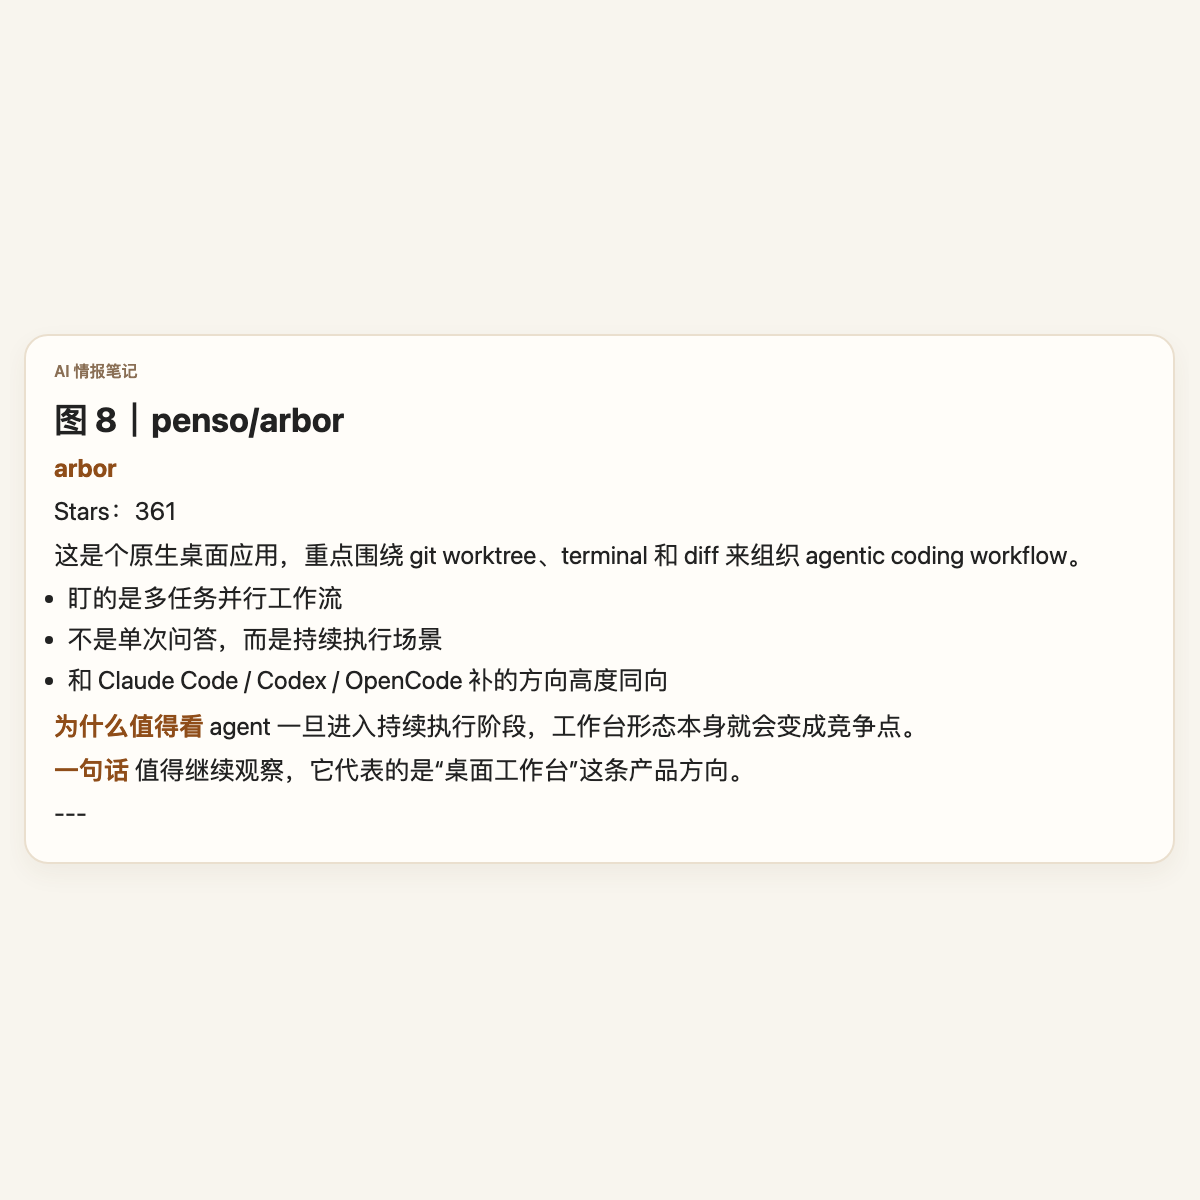
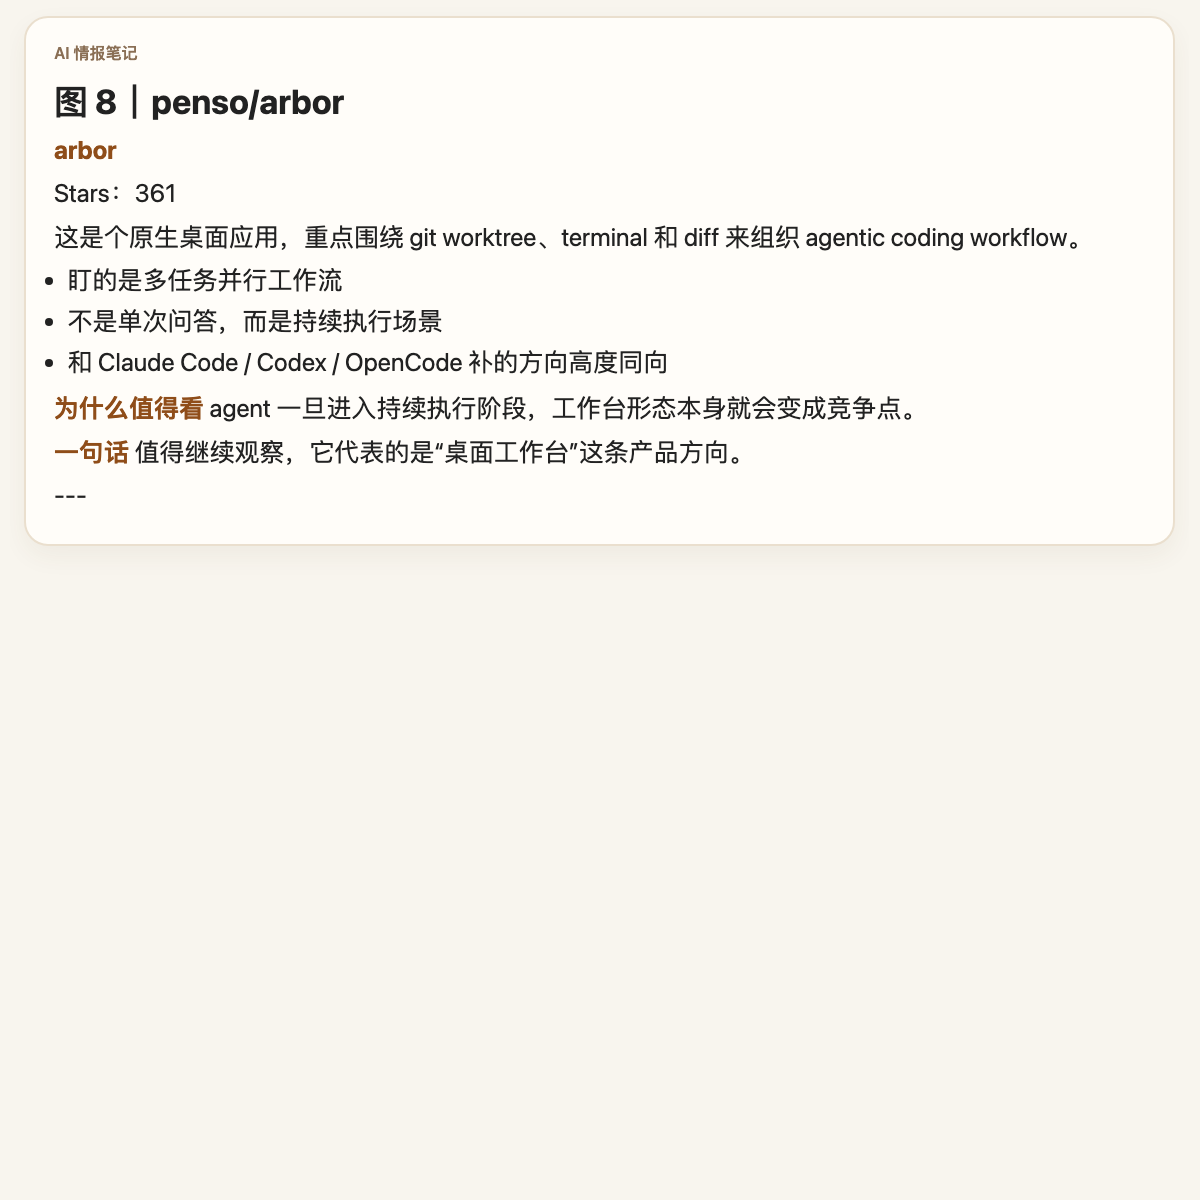
Top-align GitHub card content in square images

Changed region(s): [[0.0308, 0.0308, 0.8942, 0.6475], [0.4625, 0.4317, 0.8942, 0.4933]]

diff --git a/scripts/render_markdown_image.js b/scripts/render_markdown_image.js
@@ -120,7 +120,7 @@ async function main() {
   const body = markdownToHtml(md);
   const title = path.basename(input);
   const mode = process.argv.includes('--xhs') ? 'xhs' : 'default';
-  const html = mode === 'xhs' ? `<!doctype html><html lang="zh-CN"><head><meta charset="UTF-8" /><meta name="viewport" content="width=device-width, initial-scale=1.0" /><title>${escapeHtml(title)}</title><style>:root{--bg:#f8f5ee;--paper:#fffdf9;--text:#222;--muted:#8a6f55;--border:#eadfce;--accent:#c9783a}*{box-sizing:border-box}body{margin:0;background:var(--bg);color:var(--text);font-family:-apple-system,BlinkMacSystemFont,"Segoe UI","PingFang SC","Hiragino Sans GB","Microsoft YaHei",sans-serif}.page{width:1179px;min-height:1200px;margin:0 auto;padding:16px 14px 18px;display:flex;align-items:center}.card{width:100%;background:var(--paper);border:2px solid var(--border);border-radius:24px;box-shadow:0 10px 26px rgba(90,60,30,.06);padding:24px 28px}.meta{font-size:16px;color:var(--muted);margin-bottom:8px;font-weight:600}h1,h2,h3,h4,h5,h6{margin:.5em 0 .25em;line-height:1.22}h1{font-size:46px}h2{font-size:34px}h3{font-size:28px}h4{font-size:24px}p,li,blockquote,pre{font-size:25px;line-height:1.52}p{margin:.22em 0}ul{margin:.12em 0 .5em .85em;padding:0}li{margin:.12em 0}blockquote{margin:.45em 0;padding:12px 14px;border-left:6px solid var(--accent);background:#fff5eb;color:#5b4028;border-radius:0 12px 12px 0}code{background:#f7efe4;border:1px solid #eadfce;border-radius:6px;padding:1px 6px;font-size:.86em;font-family:ui-monospace,SFMono-Regular,Menlo,monospace}pre{white-space:pre-wrap;word-break:break-word;background:#3b2b1f;color:#f8efe7;padding:14px 16px;border-radius:14px;overflow:hidden}pre code{background:transparent;border:0;padding:0;color:inherit}a{color:#b8662b;text-decoration:none}strong{color:#8f4d19}</style></head><body><div class="page"><div class="card"><div class="meta">AI 情报笔记</div>${body}</div></div></body></html>` : `<!doctype html><html lang="zh-CN"><head><meta charset="UTF-8" /><meta name="viewport" content="width=device-width, initial-scale=1.0" /><title>${escapeHtml(title)}</title><style>:root{--bg:#f5f7fb;--paper:#ffffff;--text:#18212f;--muted:#5f6b7a;--border:#e5e9f0;--accent:#2563eb}*{box-sizing:border-box}body{margin:0;background:linear-gradient(180deg,#eef4ff 0%,var(--bg) 100%);color:var(--text);font-family:-apple-system,BlinkMacSystemFont,"Segoe UI","PingFang SC","Hiragino Sans GB","Microsoft YaHei",sans-serif}.page{width:1200px;margin:0 auto;padding:48px}.card{background:var(--paper);border:1px solid var(--border);border-radius:24px;box-shadow:0 18px 50px rgba(15,23,42,.08);padding:52px 60px}.meta{font-size:18px;color:var(--muted);margin-bottom:18px}h1,h2,h3,h4,h5,h6{margin:1.1em 0 .55em;line-height:1.3}h1{font-size:42px}h2{font-size:32px;border-top:1px solid var(--border);padding-top:22px}h3{font-size:26px}h4{font-size:22px}p,li,blockquote,pre{font-size:22px;line-height:1.75}p{margin:.5em 0}ul{margin:.3em 0 1em 1.2em;padding:0}li{margin:.25em 0}blockquote{margin:1em 0;padding:16px 20px;border-left:6px solid var(--accent);background:#f8fbff;color:#24364d;border-radius:0 12px 12px 0}code{background:#f1f5f9;border:1px solid #e2e8f0;border-radius:8px;padding:2px 8px;font-size:.9em;font-family:ui-monospace,SFMono-Regular,Menlo,monospace}pre{white-space:pre-wrap;word-break:break-word;background:#0f172a;color:#e2e8f0;padding:18px 22px;border-radius:16px;overflow:hidden}pre code{background:transparent;border:0;padding:0;color:inherit}a{color:var(--accent);text-decoration:none}</style></head><body><div class="page"><div class="card"><div class="meta">Markdown 图片副本 · ${escapeHtml(title)}</div>${body}</div></div></body></html>`;
+  const html = mode === 'xhs' ? `<!doctype html><html lang="zh-CN"><head><meta charset="UTF-8" /><meta name="viewport" content="width=device-width, initial-scale=1.0" /><title>${escapeHtml(title)}</title><style>:root{--bg:#f8f5ee;--paper:#fffdf9;--text:#222;--muted:#8a6f55;--border:#eadfce;--accent:#c9783a}*{box-sizing:border-box}body{margin:0;background:var(--bg);color:var(--text);font-family:-apple-system,BlinkMacSystemFont,"Segoe UI","PingFang SC","Hiragino Sans GB","Microsoft YaHei",sans-serif}.page{width:1179px;min-height:1200px;margin:0 auto;padding:16px 14px 18px;display:flex;justify-content:center;align-items:flex-start}.card{width:100%;background:var(--paper);border:2px solid var(--border);border-radius:24px;box-shadow:0 10px 26px rgba(90,60,30,.06);padding:24px 28px}.meta{font-size:16px;color:var(--muted);margin-bottom:8px;font-weight:600}h1,h2,h3,h4,h5,h6{margin:.5em 0 .25em;line-height:1.22}h1{font-size:46px}h2{font-size:34px}h3{font-size:28px}h4{font-size:24px}p,li,blockquote,pre{font-size:25px;line-height:1.52}p{margin:.22em 0}ul{margin:.12em 0 .5em .85em;padding:0}li{margin:.12em 0}blockquote{margin:.45em 0;padding:12px 14px;border-left:6px solid var(--accent);background:#fff5eb;color:#5b4028;border-radius:0 12px 12px 0}code{background:#f7efe4;border:1px solid #eadfce;border-radius:6px;padding:1px 6px;font-size:.86em;font-family:ui-monospace,SFMono-Regular,Menlo,monospace}pre{white-space:pre-wrap;word-break:break-word;background:#3b2b1f;color:#f8efe7;padding:14px 16px;border-radius:14px;overflow:hidden}pre code{background:transparent;border:0;padding:0;color:inherit}a{color:#b8662b;text-decoration:none}strong{color:#8f4d19}</style></head><body><div class="page"><div class="card"><div class="meta">AI 情报笔记</div>${body}</div></div></body></html>` : `<!doctype html><html lang="zh-CN"><head><meta charset="UTF-8" /><meta name="viewport" content="width=device-width, initial-scale=1.0" /><title>${escapeHtml(title)}</title><style>:root{--bg:#f5f7fb;--paper:#ffffff;--text:#18212f;--muted:#5f6b7a;--border:#e5e9f0;--accent:#2563eb}*{box-sizing:border-box}body{margin:0;background:linear-gradient(180deg,#eef4ff 0%,var(--bg) 100%);color:var(--text);font-family:-apple-system,BlinkMacSystemFont,"Segoe UI","PingFang SC","Hiragino Sans GB","Microsoft YaHei",sans-serif}.page{width:1200px;margin:0 auto;padding:48px}.card{background:var(--paper);border:1px solid var(--border);border-radius:24px;box-shadow:0 18px 50px rgba(15,23,42,.08);padding:52px 60px}.meta{font-size:18px;color:var(--muted);margin-bottom:18px}h1,h2,h3,h4,h5,h6{margin:1.1em 0 .55em;line-height:1.3}h1{font-size:42px}h2{font-size:32px;border-top:1px solid var(--border);padding-top:22px}h3{font-size:26px}h4{font-size:22px}p,li,blockquote,pre{font-size:22px;line-height:1.75}p{margin:.5em 0}ul{margin:.3em 0 1em 1.2em;padding:0}li{margin:.25em 0}blockquote{margin:1em 0;padding:16px 20px;border-left:6px solid var(--accent);background:#f8fbff;color:#24364d;border-radius:0 12px 12px 0}code{background:#f1f5f9;border:1px solid #e2e8f0;border-radius:8px;padding:2px 8px;font-size:.9em;font-family:ui-monospace,SFMono-Regular,Menlo,monospace}pre{white-space:pre-wrap;word-break:break-word;background:#0f172a;color:#e2e8f0;padding:18px 22px;border-radius:16px;overflow:hidden}pre code{background:transparent;border:0;padding:0;color:inherit}a{color:var(--accent);text-decoration:none}</style></head><body><div class="page"><div class="card"><div class="meta">Markdown 图片副本 · ${escapeHtml(title)}</div>${body}</div></div></body></html>`;
 
   const tmpHtml = path.join(path.dirname(output), `.${path.basename(output)}.tmp.html`);
   fs.writeFileSync(tmpHtml, html, 'utf8');
